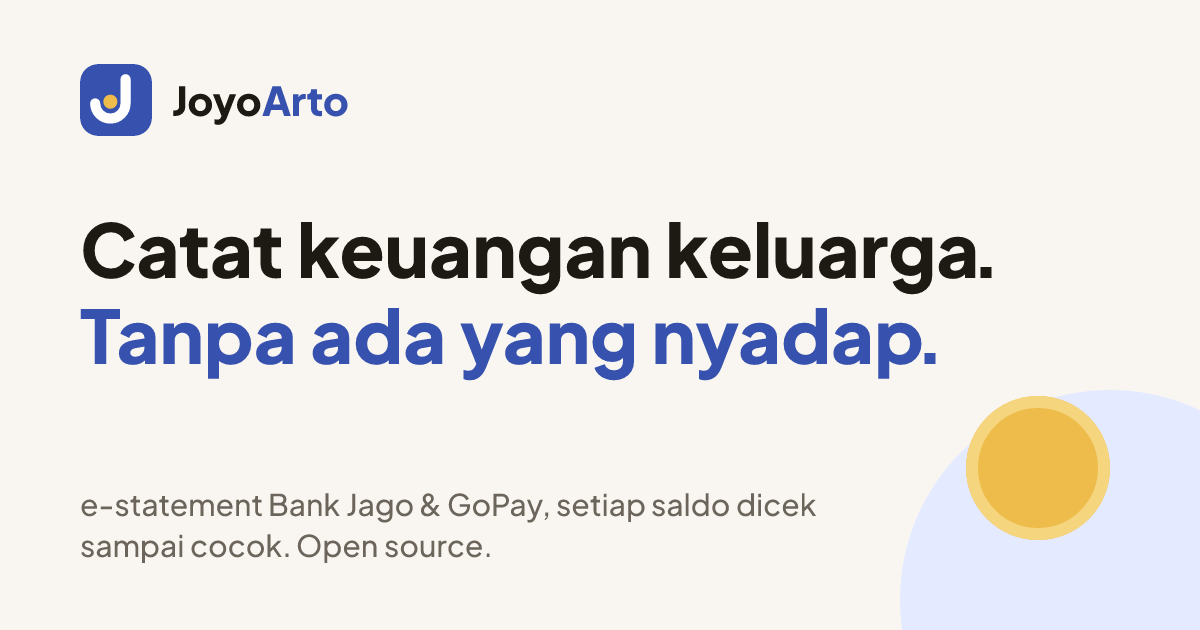
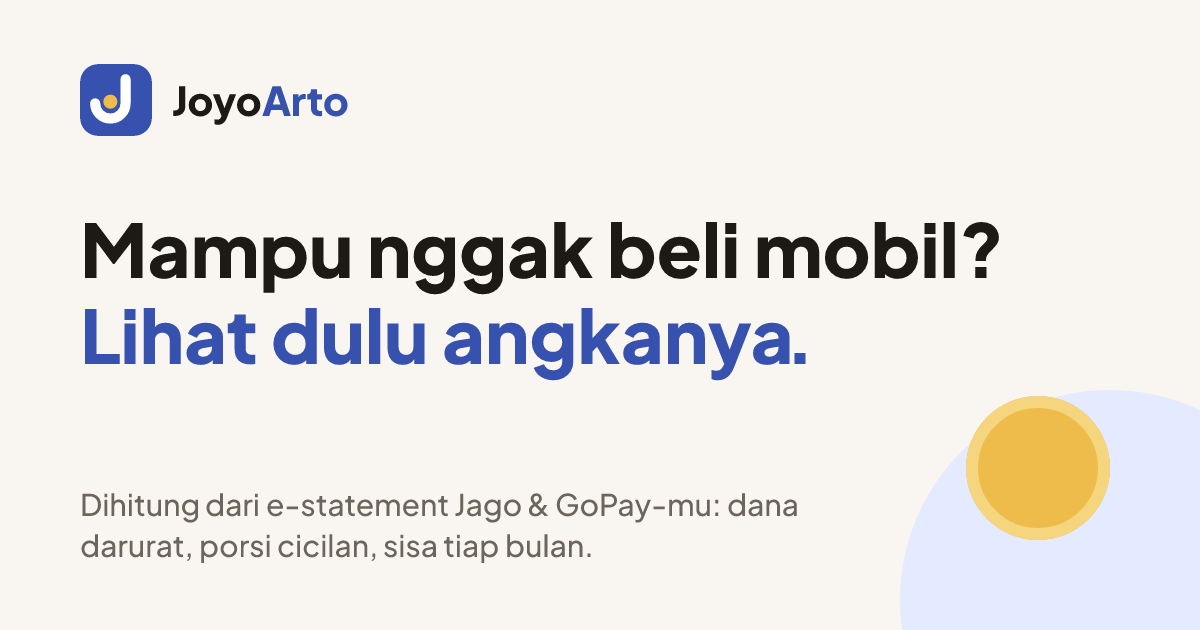
Landing: lead with the decision ("Mampu nggak beli mobil?"), privacy after features
- New hero (ID/EN), a not-financial-advice note under the CTAs, and a "why track" section with example
  questions right under the hero.
- Privacy section moves after the features and keeps the old hero's open-code / never sold / no ads lines.
- Features subtitle no longer says "not just a chatbot".
- seo.ts: home title, description, social copy, crawler body and the home/default share cards (regenerated,
  OG_VERSION bumped).

Changed region(s): [[0.0617, 0.3317, 0.8325, 0.4825], [0.0617, 0.4825, 0.8017, 0.6032], [0.0617, 0.7841, 0.6783, 0.9048]]

diff --git a/apps/web/src/routes/-landing.tsx b/apps/web/src/routes/-landing.tsx
@@ -23,10 +23,11 @@ export function Landing() {
       <PublicHeader />
       <main>
         <Hero t={t} />
+        <WhyTrack t={t} />
         <HowItWorks t={t} />
         <Features t={t} />
-        <AndroidTesters t={t} />
         <Privacy t={t} />
+        <AndroidTesters t={t} />
         <Pricing t={t} />
         <Waitlist t={t} />
         <Faq t={t} />
@@ -64,13 +65,13 @@ function Hero({ t }: { t: T }) {
       <div className="mx-auto grid max-w-6xl items-center gap-10 lg:grid-cols-[1.1fr_1fr]">
         <div>
           <h1 className="text-[2.5rem] leading-[1.05] font-extrabold tracking-tight text-balance sm:text-6xl">
-            {t("Catat keuangan keluarga.", "Track your family's money.")}{" "}
-            <span className="text-primary">{t("Tanpa ada yang nyadap.", "Nobody listening in.")}</span>
+            {t("Mampu nggak beli mobil?", "Can we afford the car?")}{" "}
+            <span className="text-primary">{t("Lihat dulu angkanya.", "Check the numbers first.")}</span>
           </h1>
           <p className="mt-4 max-w-xl text-lg text-muted-foreground text-pretty">
             {t(
-              "Kodenya terbuka, jadi siapa pun bisa periksa ke mana datamu pergi. Nggak dijual, nggak dipakai buat iklan. Upload e-statement, JoyoArto cek setiap saldo sampai cocok, lalu tinggal tanya: “bulan ini kita habis berapa buat makan di luar?”",
-              "The code is open, so anyone can check where your data goes. Never sold, never used for ads. Upload your statements, JoyoArto checks every balance until it adds up, then just ask: “how much did we spend eating out this month?”",
+              "Cicilan di brosur dealer selalu kelihatan ringan. JoyoArto baca e-statement Jago dan GoPay-mu, hitung berapa yang benar-benar masuk dan keluar tiap bulan, lalu uji cicilannya: dana darurat masih cukup 6 bulan atau nggak, total cicilan masih di bawah 30% penghasilan atau nggak.",
+              "The installment on the dealer's brochure always looks small. JoyoArto reads your Jago and GoPay statements, works out what really comes in and goes out each month, then tests the loan: is your emergency fund still 6 months, are all installments still under 30% of income?",
             )}
           </p>
           <div className="mt-7 flex flex-col gap-2.5 sm:flex-row">
@@ -84,7 +85,10 @@ function Hero({ t }: { t: T }) {
               <Smartphone aria-hidden /> {t("Jadi tester Android", "Test the Android app")}
             </a>
           </div>
-          <p className="mt-3 text-sm text-muted-foreground">
+          <p className="mt-3 text-xs text-muted-foreground">
+            {t("Simulasinya hitungan dari transaksimu sendiri, bukan nasihat keuangan.", "The simulation is arithmetic on your own transactions, not financial advice.")}
+          </p>
+          <p className="mt-2 text-sm text-muted-foreground">
             {t("Demo-nya jalan di browser kamu. Statement nggak diunggah ke mana-mana.", "The demo runs in your browser. Your statement is not uploaded anywhere.")}
             {REPO_URL && (
               <>
@@ -141,6 +145,43 @@ function HeroVisual({ t }: { t: T }) {
         <p className="mt-0.5">{t("“Kalau ambil mobil Rp 300 jt, tabungan buat si kecil aman nggak?”", "“If we buy a Rp 300m car, is the baby fund still safe?”")}</p>
       </div>
     </div>
+  );
+}
+
+/** Why anyone tracks spending: a decision that needs real averages. The questions are examples, not features. */
+function WhyTrack({ t }: { t: T }) {
+  const questions = [
+    t("Cicilan mobil 4 juta sebulan, masih aman?", "A Rp 4 juta monthly car installment: still safe?"),
+    t("Anak pertama lahir tahun depan, tabungan masih jalan?", "First baby next year: can we keep saving?"),
+    t("Pindah ke kontrakan yang lebih besar, sisa berapa tiap bulan?", "A bigger rental: what's left each month?"),
+    t("Cicilan dan paylater sekarang sudah makan berapa persen gaji?", "How much of my salary do installments and paylater already take?"),
+  ];
+  return (
+    <Section id="kenapa" className="pt-4 sm:pt-6">
+      <div className="grid gap-8 lg:grid-cols-[1.1fr_1fr] lg:items-start">
+        <div className="max-w-2xl">
+          <h2 className="text-[1.75rem] leading-tight font-extrabold tracking-tight text-balance sm:text-4xl">
+            {t("Nyatat pengeluaran itu membosankan kalau nggak ada tujuannya.", "Tracking spending is boring when it isn't for anything.")}
+          </h2>
+          <p className="mt-3 text-pretty text-muted-foreground">
+            {t(
+              "Tujuannya biasanya datang sendiri: mau beli mobil, anak mau lahir, kontrak rumah mau habis. Saat itu kamu butuh rata-rata pengeluaran dari bulan-bulan yang sudah lewat, bukan perkiraan. JoyoArto mengumpulkannya dari statement, jadi kamu nggak perlu mengetik tiap transaksi.",
+              "The reason usually shows up on its own: a car, a baby, a lease running out. Then you need your average spending from past months, not a guess. JoyoArto builds it from your statements, so you don't type in every purchase.",
+            )}
+          </p>
+          <Link to="/demo" className={buttonVariants({ variant: "link", className: "mt-3 px-0" })}>
+            {t("Coba dengan statement-mu di demo", "Try it with your statement in the demo")} <ArrowRight aria-hidden />
+          </Link>
+        </div>
+        <ul className="space-y-2.5" aria-label={t("Contoh pertanyaan", "Example questions") as string}>
+          {questions.map((q, i) => (
+            <li key={i} className="rounded-3xl rounded-tl-md bg-card px-4 py-3 font-semibold text-pretty">
+              {q}
+            </li>
+          ))}
+        </ul>
+      </div>
+    </Section>
   );
 }
 
@@ -268,8 +309,8 @@ function Features({ t }: { t: T }) {
         eyebrow={t("Fitur", "Features")}
         title={t("Dibuat buat rekening yang kamu pakai beneran.", "Built for the accounts you actually use.")}
         sub={t(
-          "Bukan cuma chatbot di atas catatan manual. JoyoArto membaca statement asli, membuktikan angkanya, baru kemudian AI ikut bantu.",
-          "Not just a chatbot on top of manual entries. JoyoArto reads the real statements and proves the numbers first; then AI helps.",
+          "JoyoArto membaca statement asli dan memastikan saldonya cocok dulu. Baru setelah itu Claude ikut bantu.",
+          "JoyoArto reads the real statements and makes sure the balances add up first. Then Claude helps.",
         )}
       />
       <div className="grid gap-4 sm:grid-cols-2 lg:grid-cols-4">
@@ -405,6 +446,12 @@ function Privacy({ t }: { t: T }) {
         <h2 className="mt-1.5 text-[1.75rem] leading-tight font-extrabold tracking-tight text-balance sm:text-4xl">
           {t("Uang itu urusan pribadi. Kami anggap begitu juga.", "Money is personal. We treat it that way.")}
         </h2>
+        <p className="mt-3 text-pretty text-white/70">
+          {t(
+            "Kodenya terbuka, jadi siapa pun bisa periksa ke mana datamu pergi. Nggak dijual, nggak dipakai buat iklan.",
+            "The code is open, so anyone can check where your data goes. Never sold, never used for ads.",
+          )}
+        </p>
       </div>
       <div className="grid gap-4 sm:grid-cols-2">
         {points.map((p, i) => (

diff --git a/apps/web/src/lib/seo.ts b/apps/web/src/lib/seo.ts
@@ -29,15 +29,15 @@ const card = (c: OgCard) => c;
  * Bump when the cards change (scripts/og.ts): WhatsApp, Telegram, X and Facebook cache share images by URL for days,
  * so a new ?v= makes them fetch the new picture.
  */
-export const OG_VERSION = "20261104b";
+export const OG_VERSION = "20261105";
 /** Absolute-path URL of a share card, versioned for scraper caches. */
 export const ogPath = (c: Pick<OgCard, "file">) => `/${c.file}?v=${OG_VERSION}`;
 export const OG = {
   home: card({
     file: "og/home.png",
-    title: ["Catat keuangan keluarga.", "Tanpa ada yang nyadap."],
-    sub: "e-statement Bank Jago & GoPay, setiap saldo dicek sampai cocok. Open source.",
-    alt: "JoyoArto: Catat keuangan keluarga. Tanpa ada yang nyadap. e-statement Bank Jago & GoPay, setiap saldo dicek sampai cocok.",
+    title: ["Mampu nggak beli mobil?", "Lihat dulu angkanya."],
+    sub: "Dihitung dari e-statement Jago & GoPay-mu: dana darurat, porsi cicilan, sisa tiap bulan.",
+    alt: "JoyoArto: Mampu nggak beli mobil? Lihat dulu angkanya, dihitung dari e-statement Jago & GoPay-mu.",
   }),
   demo: card({
     file: "og/demo.png",
@@ -63,9 +63,9 @@ export const OG = {
   /** public/og.png: the fallback for any page without its own card (same picture as home). */
   default: card({
     file: "og.png",
-    title: ["Catat keuangan keluarga.", "Tanpa ada yang nyadap."],
-    sub: "e-statement Bank Jago & GoPay, setiap saldo dicek sampai cocok. Open source.",
-    alt: "JoyoArto: Catat keuangan keluarga. Tanpa ada yang nyadap.",
+    title: ["Mampu nggak beli mobil?", "Lihat dulu angkanya."],
+    sub: "Dihitung dari e-statement Jago & GoPay-mu: dana darurat, porsi cicilan, sisa tiap bulan.",
+    alt: "JoyoArto: Mampu nggak beli mobil? Lihat dulu angkanya.",
   }),
 } satisfies Record<string, OgCard>;
 export const OG_CARDS: OgCard[] = Object.values(OG);
@@ -135,12 +135,12 @@ export const PAGES: PublicPage[] = [
     path: "/",
     file: "index.html",
     sources: ["src/routes/-landing.tsx", "src/routes/index.tsx"],
-    title: "JoyoArto: Catat Keuangan Keluarga dari e-Statement Jago & GoPay",
+    title: "JoyoArto: Mampu Nggak Beli Mobil? Cek dari e-Statement Jago & GoPay",
     description:
-      "Aplikasi keuangan keluarga open source. Upload e-statement Bank Jago & GoPay, setiap saldo dicek sampai cocok. Atur anggaran rumah tangga bareng pasangan.",
+      "Cicilan di brosur selalu kelihatan ringan. JoyoArto baca e-statement Jago & GoPay-mu, hitung uang masuk dan keluar tiap bulan, lalu uji cicilannya.",
     social: {
-      title: "Catat keuangan keluarga. Tanpa ada yang nyadap.",
-      description: "Upload e-statement Bank Jago & GoPay, setiap saldo dicek sampai cocok. Kodenya terbuka, datamu nggak dijual. Coba demonya tanpa akun.",
+      title: "Mampu nggak beli mobil? Lihat dulu angkanya.",
+      description: "JoyoArto baca e-statement Jago & GoPay-mu, lalu uji cicilannya: dana darurat masih 6 bulan, total cicilan di bawah 30% penghasilan. Coba demonya tanpa akun.",
     },
     og: OG.home,
     priority: 1,
@@ -346,14 +346,20 @@ function homeBody(): string {
     ["Open source (AGPL)", "Kodenya terbuka. Mau host sendiri boleh; mau praktis, pakai Joyo Pro yang kami jalankan."],
   ];
   return wrap(
-    `<h1>Catat keuangan keluarga. Tanpa ada yang nyadap.</h1>` +
-      `<p>Kodenya terbuka, jadi siapa pun bisa periksa ke mana datamu pergi. Nggak dijual, nggak dipakai buat iklan. Upload e-statement Bank Jago dan GoPay, JoyoArto cek setiap saldo sampai cocok, lalu tinggal tanya: “bulan ini kita habis berapa buat makan di luar?”</p>` +
+    `<h1>Mampu nggak beli mobil? Lihat dulu angkanya.</h1>` +
+      `<p>Cicilan di brosur dealer selalu kelihatan ringan. JoyoArto baca e-statement Jago dan GoPay-mu, hitung berapa yang benar-benar masuk dan keluar tiap bulan, lalu uji cicilannya: dana darurat masih cukup 6 bulan atau nggak, total cicilan masih di bawah 30% penghasilan atau nggak.</p>` +
       `<p><a href="/demo">Coba demo, tanpa akun</a> · <a href="/#waitlist">Gabung waitlist</a> · <a href="/#${ANDROID_SECTION_ID}">Jadi tester Android</a></p>` +
+      `<p>Simulasinya hitungan dari transaksimu sendiri, bukan nasihat keuangan.</p>` +
+      `<section id="kenapa"><h2>Nyatat pengeluaran itu membosankan kalau nggak ada tujuannya.</h2>` +
+      `<p>Tujuannya biasanya datang sendiri: mau beli mobil, anak mau lahir, kontrak rumah mau habis. Saat itu kamu butuh rata-rata pengeluaran dari bulan-bulan yang sudah lewat, bukan perkiraan. JoyoArto mengumpulkannya dari statement, jadi kamu nggak perlu mengetik tiap transaksi.</p><ul>` +
+      `<li>Cicilan mobil 4 juta sebulan, masih aman?</li><li>Anak pertama lahir tahun depan, tabungan masih jalan?</li>` +
+      `<li>Pindah ke kontrakan yang lebih besar, sisa berapa tiap bulan?</li><li>Cicilan dan paylater sekarang sudah makan berapa persen gaji?</li></ul></section>` +
       `<section id="cara-kerja"><h2>Cara kerjanya: tiga langkah, sebulan sekali</h2><ol>` +
       `<li><strong>Upload statement.</strong> Download e-statement Bank Jago dan GoPay (PDF) dari aplikasinya, lalu taruh di JoyoArto. Bank lain bisa lewat CSV.</li>` +
       `<li><strong>Dicek sampai cocok.</strong> Setiap saldo berjalan dan total per pocket dihitung ulang. Upload ulang pun aman, nggak dobel.</li>` +
       `<li><strong>Tanya Claude, bikin rencana.</strong> Tanya pakai bahasa sehari-hari, atau simulasikan cicilan mobil, biaya bayi, pindah rumah.</li></ol></section>` +
       `<section id="fitur"><h2>Fitur</h2>${features.map(([t, b]) => `<h3>${esc(t)}</h3><p>${esc(b)}</p>`).join("")}</section>` +
+      `<section id="privasi"><h2>Uang itu urusan pribadi. Kami anggap begitu juga.</h2><p>Kodenya terbuka, jadi siapa pun bisa periksa ke mana datamu pergi. Nggak dijual, nggak dipakai buat iklan.</p></section>` +
       `<section id="${ANDROID_SECTION_ID}"><h2>Jadi tester aplikasi Android JoyoArto</h2>` +
       `<p>Aplikasinya sudah di Google Play, masih tahap uji. Dua langkah untuk memasangnya:</p><ol>` +
       `<li><strong>Gabung grup tester.</strong> Siapa pun bisa gabung di <a href="${ANDROID_TESTERS_GROUP_URL}">Google Groups: joyoarto-testers</a> (${esc(ANDROID_TESTERS_GROUP_EMAIL)}), pakai akun Google yang sama dengan di HP-mu.</li>` +
